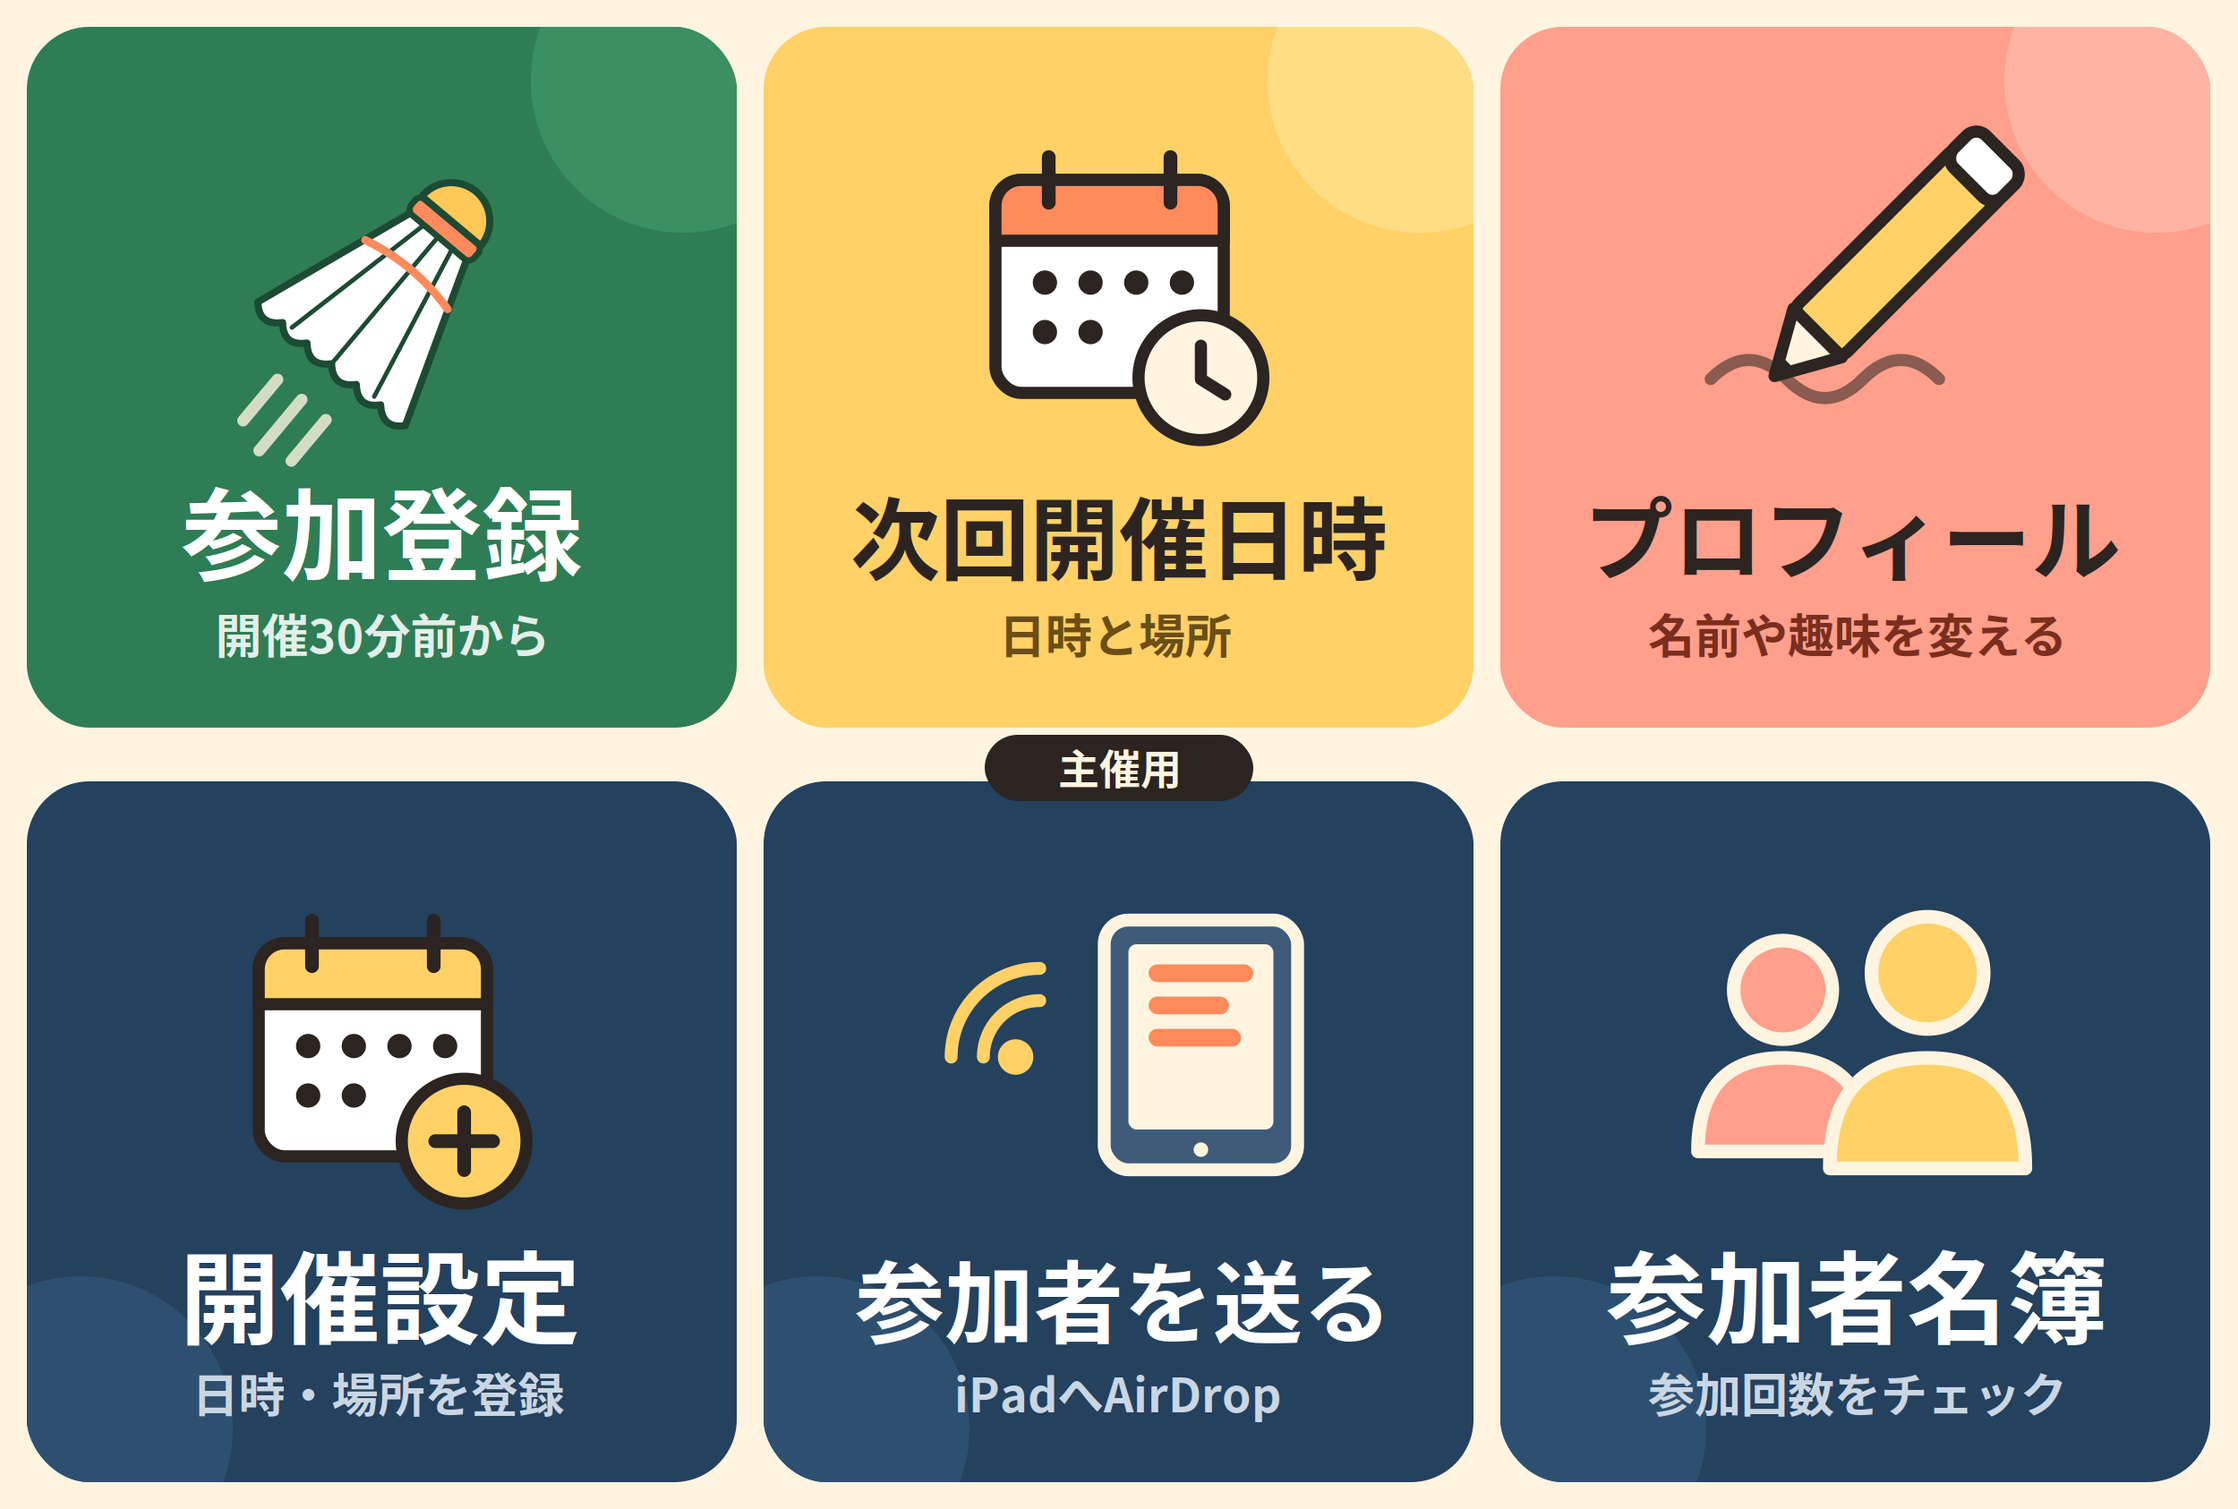
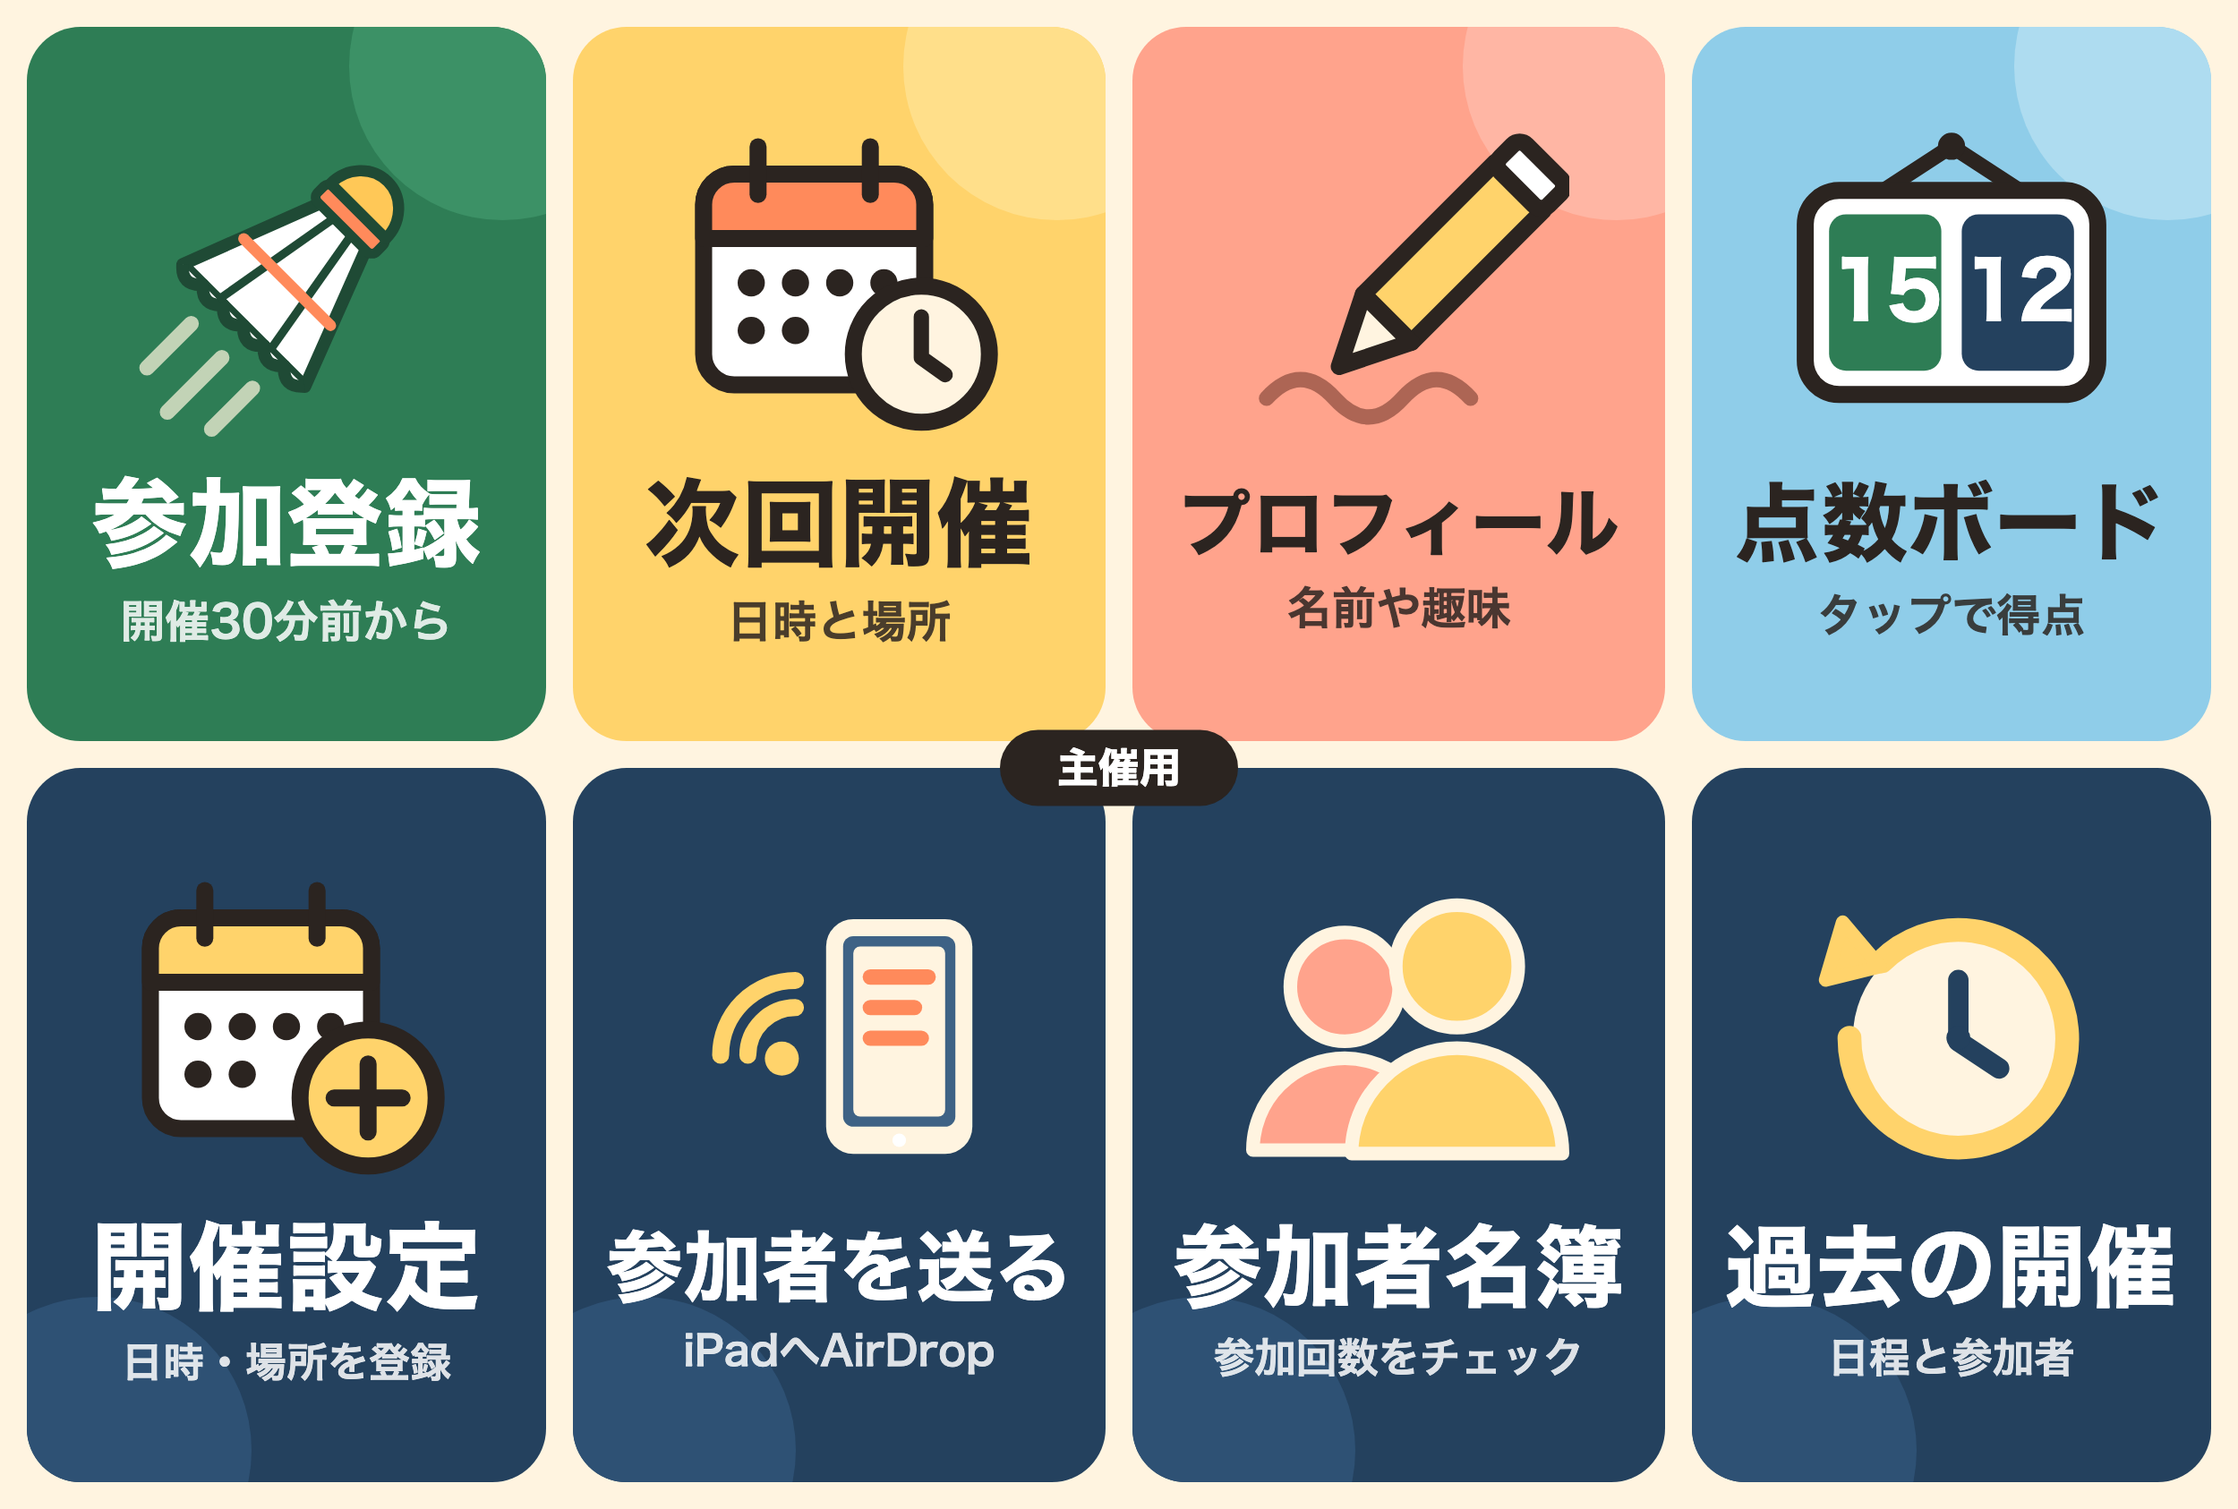
Add files via upload

diff --git a/score.html b/score.html
@@ -1,0 +1,328 @@
+<!doctype html>
+<html lang="ja">
+<head>
+<meta charset="utf-8">
+<meta name="viewport" content="width=device-width, initial-scale=1, viewport-fit=cover, user-scalable=no">
+<meta name="theme-color" content="#2B2420">
+<title>点数ボード</title>
+<link rel="stylesheet" href="style.css?v=8">
+<script charset="utf-8" src="https://static.line-scdn.net/liff/edge/2/sdk.js"></script>
+<script src="config.js?v=8"></script>
+<script src="common.js?v=8"></script>
+<style>
+  /* 点数ボード専用（全画面で使う） */
+  html, body { height: 100%; overflow: hidden; overscroll-behavior: none; }
+  body.board {
+    background: var(--ink); color: #fff;
+    display: flex; flex-direction: column; height: 100dvh;
+    padding: env(safe-area-inset-top, 0px) env(safe-area-inset-right, 0px) env(safe-area-inset-bottom, 0px) env(safe-area-inset-left, 0px);
+    -webkit-user-select: none; user-select: none; -webkit-touch-callout: none;
+    touch-action: manipulation;
+  }
+
+  .bar { display: flex; align-items: center; gap: 6px; padding: 8px 10px; flex: none; }
+  .bar button {
+    min-height: 44px; min-width: 44px; padding: 0 12px; border: none; border-radius: 12px;
+    background: rgba(255, 255, 255, .12); color: #fff; font-family: inherit; font-size: 14px; font-weight: 700;
+    display: inline-flex; align-items: center; justify-content: center; gap: 6px; cursor: pointer; white-space: nowrap;
+  }
+  .bar button:disabled { opacity: .35; }
+  .bar button:active { background: rgba(255, 255, 255, .25); }
+  .bar .target { margin-right: auto; background: var(--yellow); color: var(--ink); font-size: 16px; }
+  .bar .target b { font-size: 20px; }
+  .bar svg { width: 20px; height: 20px; }
+
+  .court { flex: 1; display: flex; flex-direction: column; gap: 6px; padding: 0 6px 6px; min-height: 0; }
+
+  .side {
+    position: relative; flex: 1; min-height: 0; border-radius: 20px; overflow: hidden;
+    display: flex; align-items: center; justify-content: center;
+    cursor: pointer; -webkit-tap-highlight-color: transparent;
+    transition: box-shadow .15s;
+  }
+  .side.s0 { background: var(--green); }
+  .side.s1 { background: #24415E; }
+  .side:active::after { content: ""; position: absolute; inset: 0; background: rgba(255, 255, 255, .08); }
+  .side.bump .pts { animation: bump .18s ease-out; }
+  @keyframes bump { 0% { transform: scale(1.08); } 100% { transform: scale(1); } }
+
+  /* サーブ側を強調 */
+  .side.serving { box-shadow: inset 0 0 0 6px var(--yellow); }
+  .side .serve {
+    position: absolute; top: 14px; left: 14px; pointer-events: none;
+    font-size: clamp(14px, 3.6vmin, 20px); font-weight: 800;
+    background: var(--yellow); color: var(--ink); padding: 5px 14px; border-radius: 999px;
+  }
+
+  .side .pts {
+    font-size: min(34dvh, 62vw); line-height: 1; font-weight: 800;
+    font-variant-numeric: tabular-nums; letter-spacing: -.02em; pointer-events: none;
+  }
+  .side .minus {
+    position: absolute; right: 10px; bottom: 10px; width: 56px; height: 56px; border-radius: 16px;
+    border: none; background: rgba(0, 0, 0, .25); color: #fff; font-size: 30px; font-weight: 800;
+    font-family: inherit; cursor: pointer; display: flex; align-items: center; justify-content: center;
+  }
+  .side .minus:disabled { opacity: .3; }
+
+  /* 横向き：左右に並べる */
+  @media (orientation: landscape) {
+    .court { flex-direction: row; }
+    .side .pts { font-size: min(62dvh, 30vw); }
+  }
+
+  /* ゲーム終了 */
+  .over {
+    position: fixed; inset: 0; z-index: 50; background: rgba(20, 16, 14, .82);
+    display: flex; align-items: center; justify-content: center; padding: 20px;
+  }
+  .over-card {
+    width: 100%; max-width: 360px; background: #fff; color: var(--ink); border-radius: 22px;
+    padding: 22px 20px 18px; display: flex; flex-direction: column; gap: 12px; text-align: center;
+  }
+  .over-card .ttl { font-size: 22px; font-weight: 800; }
+  .final { display: grid; grid-template-columns: 1fr 1fr; gap: 10px; margin-top: 8px; }
+  .final div {
+    position: relative; border-radius: 16px; padding: 14px 0; color: #fff;
+    font-size: 48px; font-weight: 800; font-variant-numeric: tabular-nums; line-height: 1;
+  }
+  .final .f0 { background: var(--green); }
+  .final .f1 { background: #24415E; }
+  .final .win::after {
+    content: "勝ち"; position: absolute; top: -10px; left: 50%; transform: translateX(-50%);
+    font-size: 13px; background: var(--yellow); color: var(--ink); padding: 3px 12px; border-radius: 999px;
+  }
+
+  /* 先取点の設定 */
+  .sheet-bg { position: fixed; inset: 0; z-index: 60; background: rgba(20, 16, 14, .6); display: flex; align-items: flex-end; justify-content: center; }
+  .sheet {
+    width: 100%; max-width: 520px; max-height: 92dvh; overflow-y: auto;
+    background: var(--bg); color: var(--ink); border-radius: 22px 22px 0 0;
+    padding: 20px 18px calc(18px + env(safe-area-inset-bottom, 0px)); display: flex; flex-direction: column; gap: 16px;
+  }
+  @media (orientation: landscape) { .sheet-bg { align-items: center; } .sheet { border-radius: 22px; max-height: 96dvh; } }
+  .sheet h2 { margin: 0; font-size: 18px; }
+  .stepper { display: grid; grid-template-columns: 64px 1fr 64px; gap: 10px; align-items: center; }
+  .stepper button {
+    height: 64px; border-radius: 16px; border: 1.5px solid var(--line); background: #fff;
+    font-size: 30px; font-weight: 800; color: var(--ink); font-family: inherit; cursor: pointer;
+  }
+  .stepper .val { text-align: center; font-size: 44px; font-weight: 800; font-variant-numeric: tabular-nums; }
+  .stepper .val small { font-size: 16px; font-weight: 700; margin-left: 4px; }
+  .presets { display: grid; grid-template-columns: repeat(4, 1fr); gap: 8px; }
+  .presets button {
+    min-height: 44px; border-radius: 12px; border: 1.5px solid var(--line); background: #fff;
+    font-family: inherit; font-size: 15px; font-weight: 700; color: var(--ink); cursor: pointer;
+  }
+  .presets button.on { background: var(--green); border-color: var(--green); color: #fff; }
+</style>
+</head>
+<body class="board">
+
+<div class="bar">
+  <button type="button" class="target" id="b-target" aria-label="何点先取かを変更"><b id="target-num">15</b>点先取 ▾</button>
+  <button type="button" id="b-undo" aria-label="1つ前に戻す">
+    <svg viewBox="0 0 24 24" fill="none" stroke="currentColor" stroke-width="2.4" stroke-linecap="round" stroke-linejoin="round"><path d="M9 14 4 9l5-5"/><path d="M4 9h10a6 6 0 0 1 0 12h-3"/></svg>戻す
+  </button>
+  <button type="button" id="b-reset" aria-label="0点に戻す">
+    <svg viewBox="0 0 24 24" fill="none" stroke="currentColor" stroke-width="2.4" stroke-linecap="round" stroke-linejoin="round"><path d="M3 12a9 9 0 1 0 3-6.7L3 8"/><path d="M3 3v5h5"/></svg>0-0
+  </button>
+</div>
+
+<div class="court">
+  <div class="side s0" data-side="0" role="button" aria-label="緑に1点">
+    <span class="serve" id="serve0" hidden>サーブ</span>
+    <div class="pts" id="pts0">0</div>
+    <button type="button" class="minus" data-minus="0" aria-label="1点減らす">−</button>
+  </div>
+  <div class="side s1" data-side="1" role="button" aria-label="紺に1点">
+    <span class="serve" id="serve1" hidden>サーブ</span>
+    <div class="pts" id="pts1">0</div>
+    <button type="button" class="minus" data-minus="1" aria-label="1点減らす">−</button>
+  </div>
+</div>
+
+<div id="over" class="over" hidden>
+  <div class="over-card">
+    <div class="ttl">ゲーム終了</div>
+    <div class="final"><div class="f0" id="fin0"></div><div class="f1" id="fin1"></div></div>
+    <button type="button" class="btn btn-primary" id="b-new">新しいゲーム（0-0から）</button>
+    <button type="button" class="btn btn-outline" id="b-over-undo">1点戻す</button>
+  </div>
+</div>
+
+<script>
+(function () {
+  const { C, $ } = App;
+
+  const STORE_KEY = 'rakutto-score-v2';
+  const DEFAULT_TARGET = 15;
+  const MIN_TARGET = 1, MAX_TARGET = 99;
+  const PRESETS = [11, 15, 21, 30];
+  const KEEP_HOURS = 3; // 閉じても点数を残しておく時間（先取点の設定はずっと残す）
+
+  const fresh = (target) => ({ target: target || DEFAULT_TARGET, score: [0, 0], server: null, history: [], at: Date.now() });
+
+  let s = load();
+
+  function load() {
+    try {
+      const v = JSON.parse(localStorage.getItem(STORE_KEY));
+      if (v && Array.isArray(v.score)) {
+        if (Date.now() - (v.at || 0) > KEEP_HOURS * 3600 * 1000) return fresh(v.target);
+        return Object.assign(fresh(), v);
+      }
+    } catch (e) { /* 保存できない環境では毎回初期状態 */ }
+    return fresh();
+  }
+  function save() {
+    s.at = Date.now();
+    try { localStorage.setItem(STORE_KEY, JSON.stringify(s)); } catch (e) { /* 無視 */ }
+  }
+
+  /** 先取点に届いた側（0 / 1）。まだなら null */
+  function winner() {
+    if (s.score[0] >= s.target) return 0;
+    if (s.score[1] >= s.target) return 1;
+    return null;
+  }
+
+  function snapshot() {
+    s.history.push({ score: s.score.slice(), server: s.server });
+    if (s.history.length > 300) s.history.shift();
+  }
+
+  function add(i) {
+    if (winner() !== null) return;
+    snapshot();
+    s.score[i]++;
+    s.server = i; // バドミントンは点を取った側がサーブ
+    if (navigator.vibrate) navigator.vibrate(15);
+    const el = document.querySelector(`.side.s${i}`);
+    el.classList.remove('bump'); void el.offsetWidth; el.classList.add('bump');
+    commit();
+  }
+
+  function minus(i) {
+    if (s.score[i] <= 0) return;
+    snapshot();
+    s.score[i]--;
+    commit();
+  }
+
+  function undo() {
+    const h = s.history.pop();
+    if (!h) return;
+    s.score = h.score;
+    s.server = h.server;
+    commit();
+  }
+
+  function newGame() {
+    s = fresh(s.target);
+    commit();
+  }
+
+  /** 試合途中で 0-0 に戻す（押し間違えても「戻す」で元に戻せる） */
+  function reset() {
+    snapshot();
+    s.score = [0, 0];
+    s.server = null;
+    commit();
+  }
+
+  function commit() { save(); render(); }
+
+  function render() {
+    $('target-num').textContent = s.target;
+    for (const i of [0, 1]) {
+      $('pts' + i).textContent = s.score[i];
+      $('serve' + i).hidden = s.server !== i;
+      document.querySelector(`.side.s${i}`).classList.toggle('serving', s.server === i);
+      document.querySelector(`[data-minus="${i}"]`).disabled = s.score[i] <= 0;
+    }
+    $('b-undo').disabled = !s.history.length;
+    $('b-reset').disabled = !s.score[0] && !s.score[1];
+
+    const w = winner();
+    $('over').hidden = w === null;
+    if (w !== null) {
+      for (const i of [0, 1]) {
+        $('fin' + i).textContent = s.score[i];
+        $('fin' + i).classList.toggle('win', i === w);
+      }
+    }
+  }
+
+  /* ---------------- 先取点の設定 ---------------- */
+
+  function openTarget() {
+    let target = s.target;
+    const bg = document.createElement('div');
+    bg.className = 'sheet-bg';
+    bg.innerHTML = `
+      <div class="sheet" role="dialog" aria-modal="true" aria-labelledby="st-title">
+        <h2 id="st-title">何点先取？</h2>
+        <div class="stepper">
+          <button type="button" id="st-dec" aria-label="1点減らす">−</button>
+          <div class="val"><span id="st-val"></span><small>点</small></div>
+          <button type="button" id="st-inc" aria-label="1点増やす">＋</button>
+        </div>
+        <div class="presets" id="st-presets">${PRESETS.map((p) => `<button type="button" data-p="${p}">${p}点</button>`).join('')}</div>
+        <button type="button" class="btn btn-primary" id="st-save">決定</button>
+        <button type="button" class="btn btn-outline" id="st-close">やめる</button>
+      </div>`;
+    document.body.appendChild(bg);
+
+    const show = () => {
+      $('st-val').textContent = target;
+      bg.querySelectorAll('[data-p]').forEach((b) => b.classList.toggle('on', Number(b.dataset.p) === target));
+    };
+    const setT = (v) => { target = Math.max(MIN_TARGET, Math.min(MAX_TARGET, v)); show(); };
+    $('st-dec').addEventListener('click', () => setT(target - 1));
+    $('st-inc').addEventListener('click', () => setT(target + 1));
+    $('st-presets').addEventListener('click', (e) => { const b = e.target.closest('[data-p]'); if (b) setT(Number(b.dataset.p)); });
+    const close = () => bg.remove();
+    bg.addEventListener('click', (e) => { if (e.target === bg) close(); });
+    $('st-close').addEventListener('click', close);
+    $('st-save').addEventListener('click', () => { s.target = target; close(); commit(); });
+    show();
+  }
+
+  /* ---------------- 画面を消さない ---------------- */
+
+  let wakeLock = null;
+  async function keepAwake() {
+    try {
+      if ('wakeLock' in navigator && !wakeLock && document.visibilityState === 'visible') {
+        wakeLock = await navigator.wakeLock.request('screen');
+        wakeLock.addEventListener('release', () => { wakeLock = null; });
+      }
+    } catch (e) { /* 非対応の端末では何もしない */ }
+  }
+  document.addEventListener('visibilitychange', keepAwake);
+
+  /* ---------------- 操作 ---------------- */
+
+  document.querySelectorAll('.side').forEach((el) => el.addEventListener('click', (e) => {
+    keepAwake();
+    const m = e.target.closest('[data-minus]');
+    if (m) return minus(Number(m.dataset.minus));
+    add(Number(el.dataset.side));
+  }));
+  $('b-undo').addEventListener('click', undo);
+  $('b-over-undo').addEventListener('click', undo);
+  $('b-new').addEventListener('click', newGame);
+  $('b-reset').addEventListener('click', reset);
+  $('b-target').addEventListener('click', openTarget);
+
+  render();
+
+  // LIFF は画面を全画面で開くためだけに使う（ログイン不要・通信なし）
+  if (window.liff && C.SCORE_LIFF_ID && !/ここに/.test(C.SCORE_LIFF_ID)) {
+    liff.init({ liffId: C.SCORE_LIFF_ID }).catch((e) => console.warn(e));
+  }
+})();
+</script>
+</body>
+</html>
